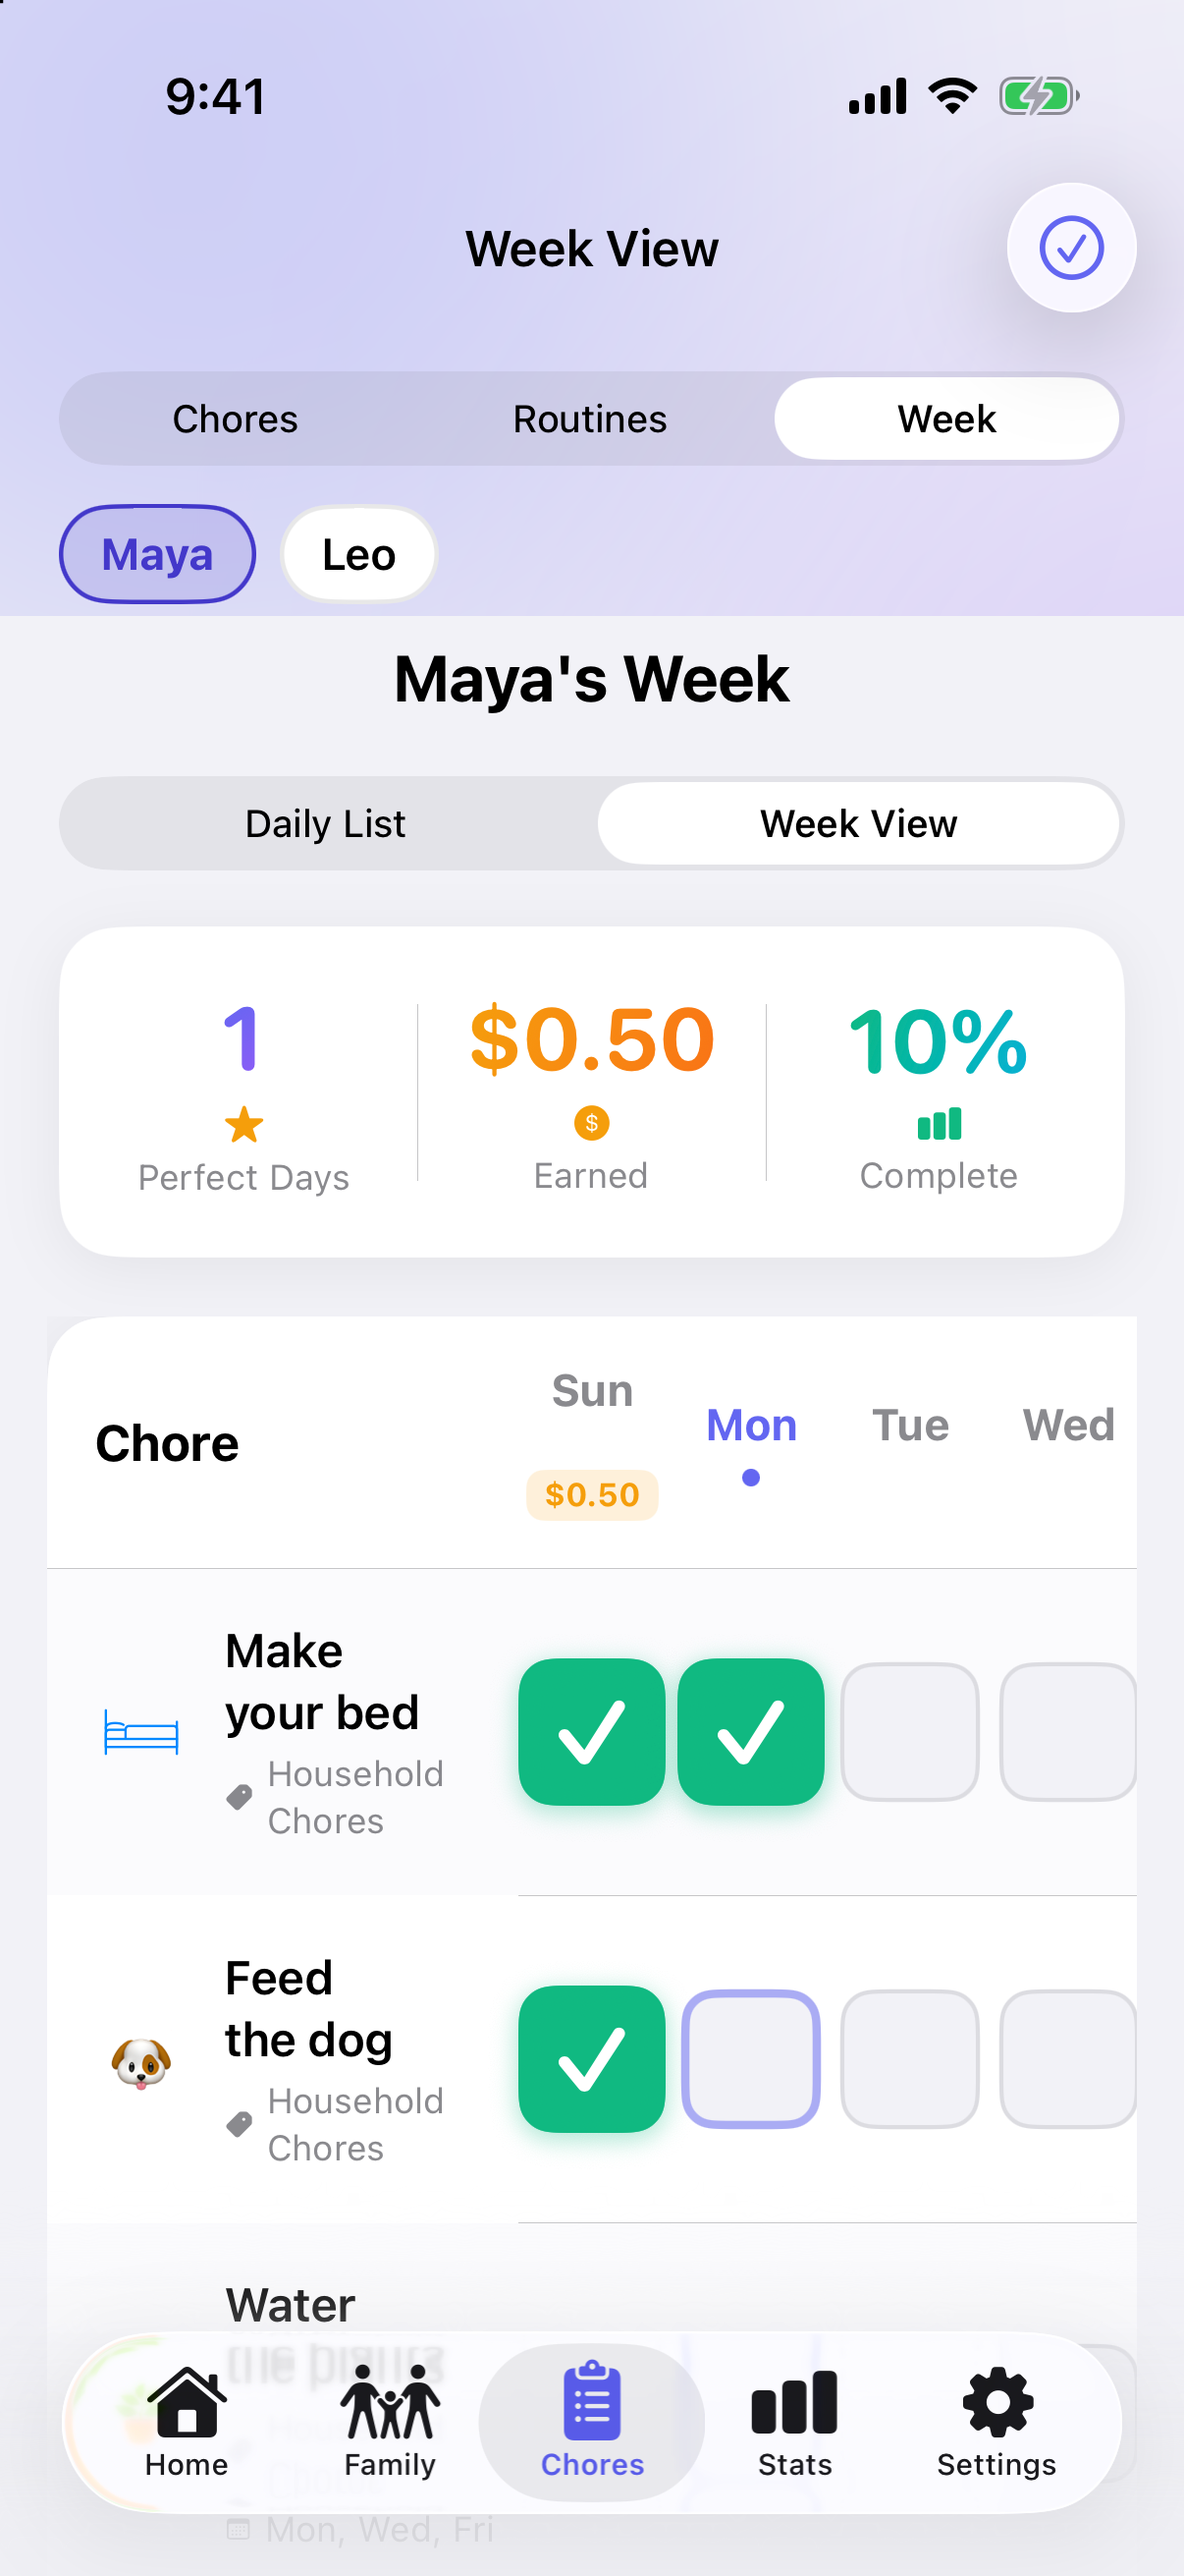
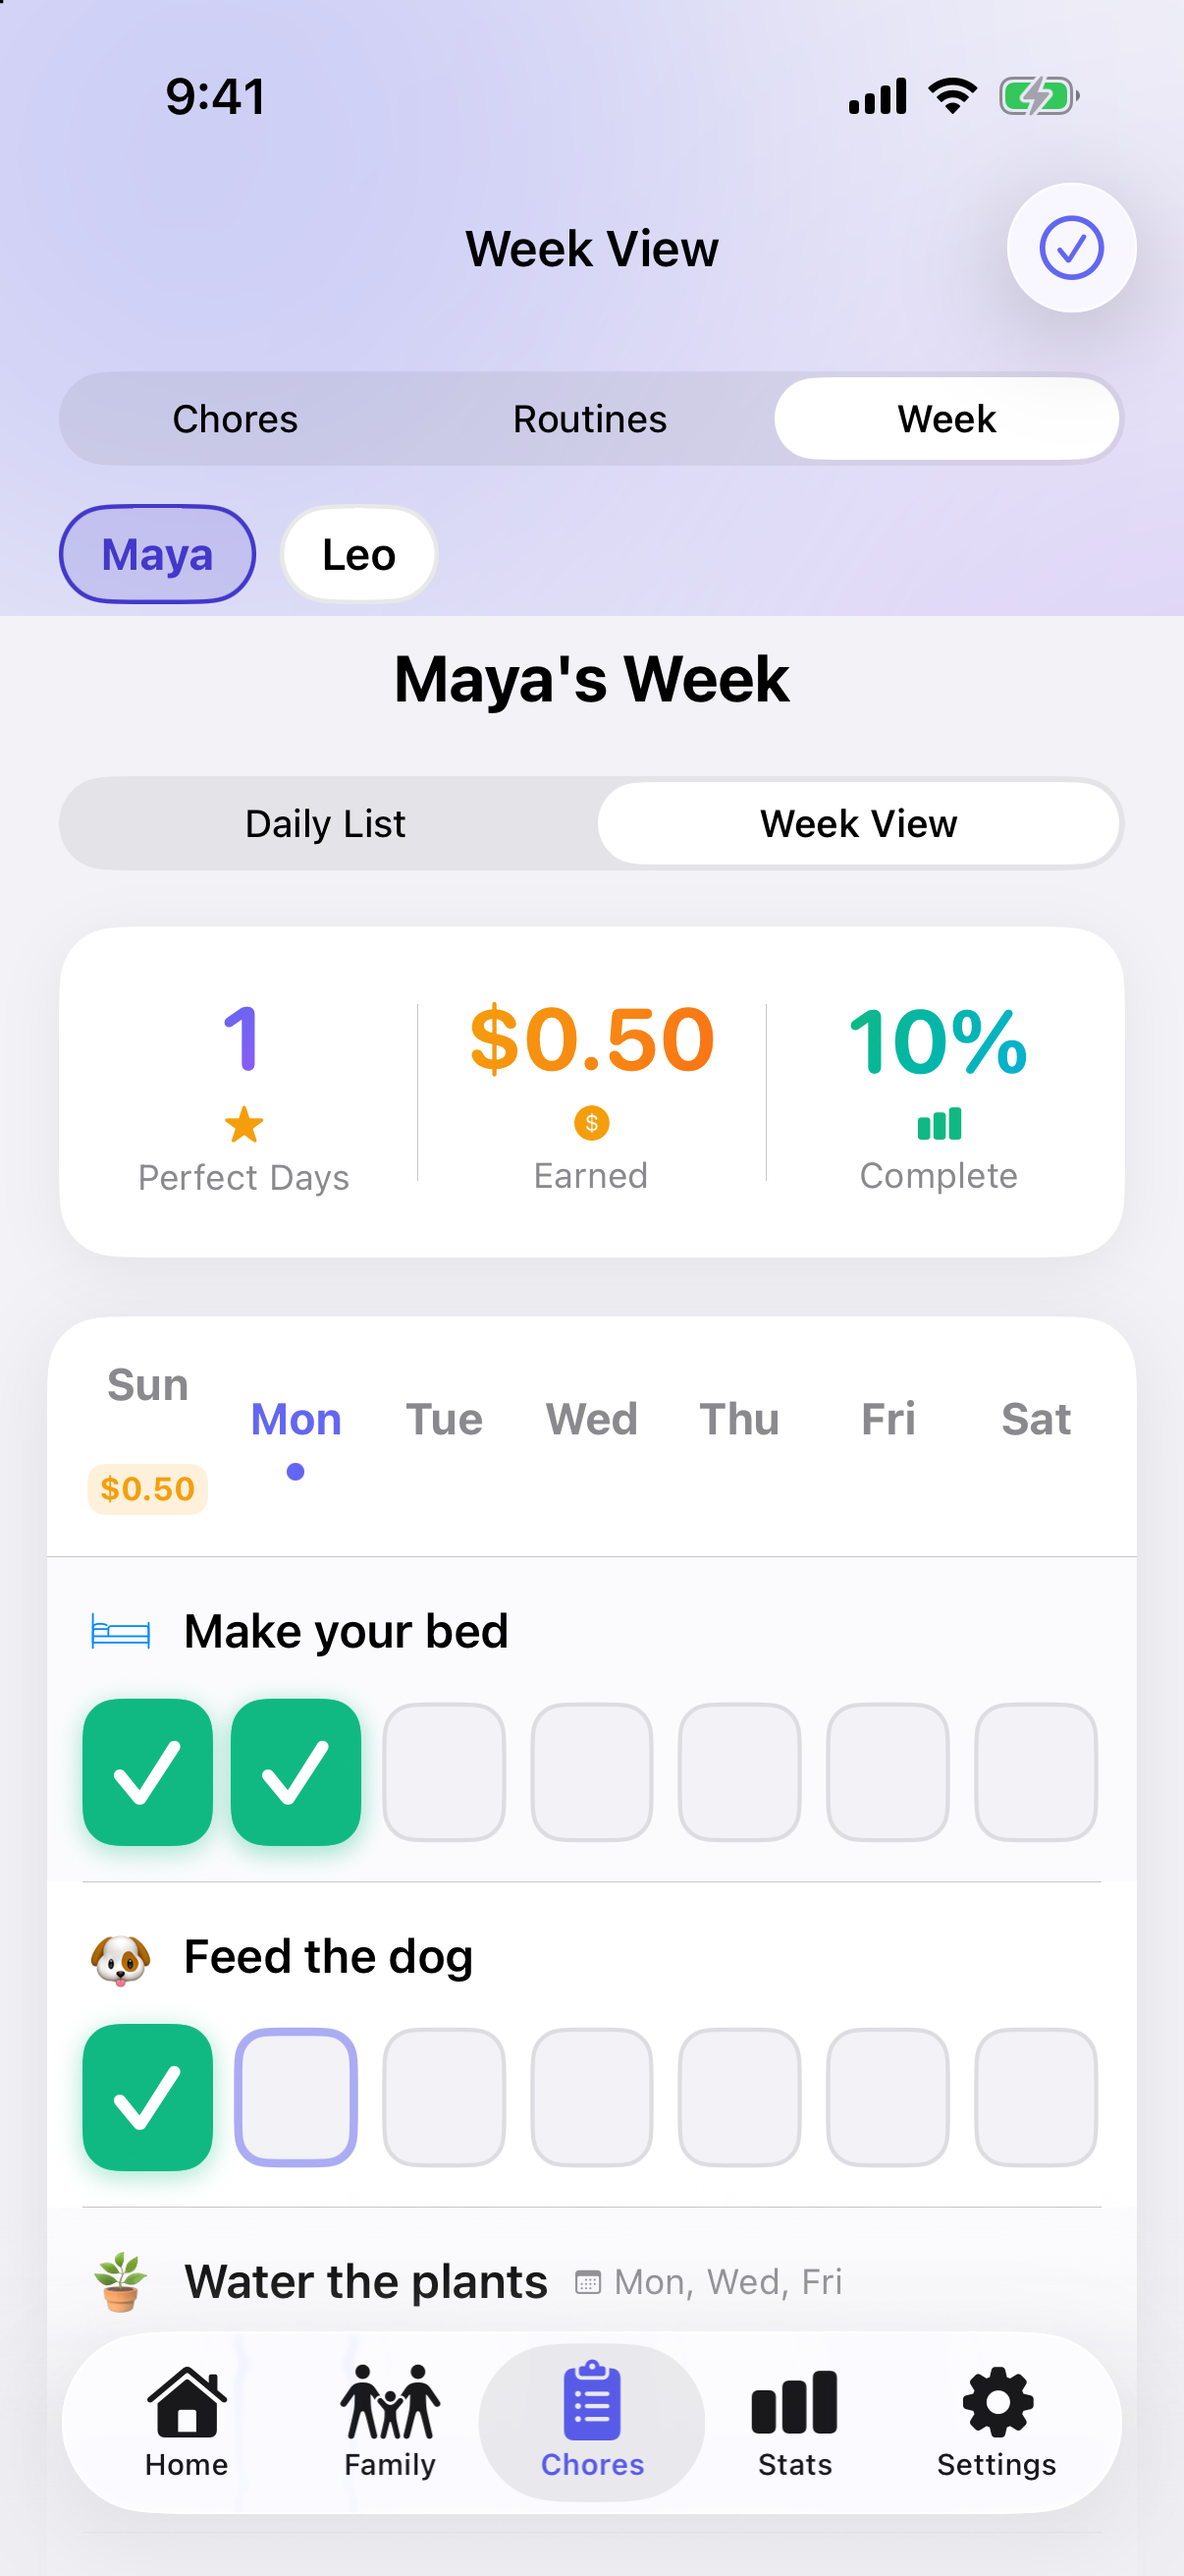
feat(ios): week grid fits the screen, no more side-scrolling
The grid was a 140pt chore column plus seven 50pt cells inside a
horizontal ScrollView, so iPhones saw four days and swiped for the
rest. It now uses the web grid's shape: chore info above its row, seven
flexible columns below, day headers aligned, iPad capped at a
comfortable width. Every cell keeps its tap-to-toggle, pending, and
off-day dashed states. Reddit asset retaken with the full week visible.

diff --git a/ChoreStar-iOS/ChoreStar/Views/WeekCalendarView.swift b/ChoreStar-iOS/ChoreStar/Views/WeekCalendarView.swift
@@ -189,31 +189,21 @@ struct WeekCalendarView: View {
                     }
                     .padding(.horizontal, 20)
                 } else {
-                    // WEEK VIEW (GRID) - scrollable horizontally for small screens
-                    let gridWidth = choreColumnWidth + (cellSize * 7) + 40
-                    let needsScroll = gridWidth > geometry.size.width
-                    
-                    ScrollView(.horizontal, showsIndicators: needsScroll) {
-                        VStack(spacing: 0) {
-                            // Day headers
-                            HStack(spacing: 4) {
-                                // Chore column header
-                                VStack(spacing: 4) {
-                                    Text("Chore")
-                                        .font(.headline)
-                                        .fontWeight(.bold)
-                                        .foregroundColor(.choreStarTextPrimary)
-                                }
-                                .frame(width: choreColumnWidth, alignment: .leading)
-                                .padding(.leading, 16)
-                                
-                                // Day headers
+                    // WEEK VIEW (GRID): seven flexible columns that fit any
+                    // width, no horizontal scrolling. Chore info sits ABOVE
+                    // its row of cells (the web grid's shape), so the columns
+                    // share the full card width on iPhone; iPad caps the card
+                    // at a comfortable width instead of stretching cells.
+                    VStack(spacing: 0) {
+                            // Day headers — same spacing and padding as the
+                            // cell rows below so the columns line up.
+                            HStack(spacing: 6) {
                                 ForEach(ChoreSchedule.displayOrder(), id: \.self) { dayIndex in
                                     VStack(spacing: 6) {
                                         Text(days[dayIndex])
                                             .font(.subheadline)
                                             .fontWeight(.bold)
-                                        
+
                                         if dayIndex == currentDayOfWeek {
                                             Circle()
                                                 .fill(Color.choreStarPrimary)
@@ -223,28 +213,31 @@ struct WeekCalendarView: View {
                                                 .fill(Color.clear)
                                                 .frame(width: 6, height: 6)
                                         }
-                                        
+
                                         // Show earnings if perfect day
                                         if isDayPerfect(dayIndex) {
                                             Text(manager.formatMoney(dayEarnings(dayIndex)))
                                                 .font(.caption2)
                                                 .fontWeight(.bold)
                                                 .foregroundColor(.choreStarAccent)
-                                                .padding(.horizontal, 6)
+                                                .lineLimit(1)
+                                                .minimumScaleFactor(0.6)
+                                                .padding(.horizontal, 4)
                                                 .padding(.vertical, 2)
                                                 .background(Color.choreStarAccent.opacity(0.15))
                                                 .cornerRadius(6)
                                         }
                                     }
-                                    .frame(width: cellSize)
+                                    .frame(maxWidth: .infinity)
                                     .foregroundColor(dayIndex == currentDayOfWeek ? .choreStarPrimary : .choreStarTextSecondary)
                                 }
                             }
-                            .padding(.vertical, 16)
+                            .padding(.horizontal, 12)
+                            .padding(.vertical, 14)
                             .background(Color.choreStarCardBackground)
-                        
+
                             Divider()
-                            
+
                             // Chore rows
                             ForEach(Array(childChores.enumerated()), id: \.element.id) { index, chore in
                                 ChoreWeekRow(
@@ -254,22 +247,22 @@ struct WeekCalendarView: View {
                                     earnedAchievements: $earnedAchievements,
                                     showAchievementAlert: $showAchievementAlert,
                                     showConfetti: $showConfetti,
-                                    choreColumnWidth: choreColumnWidth,
-                                    cellSize: cellSize,
+                                    cellHeight: cellSize,
                                     isEvenRow: index % 2 == 0
                                 )
-                                
+
                                 if index < childChores.count - 1 {
                                     Divider()
-                                        .padding(.leading, choreColumnWidth + 20)
+                                        .padding(.horizontal, 12)
                                 }
                             }
                         }
                         .background(Color.choreStarCardBackground)
                         .cornerRadius(20)
                         .shadow(color: .black.opacity(0.08), radius: 15, x: 0, y: 5)
-                    }
-                    .padding(.horizontal, 16)
+                        .frame(maxWidth: horizontalSizeClass == .regular ? 560 : .infinity)
+                        .frame(maxWidth: .infinity)
+                        .padding(.horizontal, 16)
                 }
                 
                     // Clear the floating tab bar so the last row's cells are
@@ -411,63 +404,54 @@ struct ChoreWeekRow: View {
     @Binding var earnedAchievements: [Achievement]
     @Binding var showAchievementAlert: Bool
     @Binding var showConfetti: Bool
-    let choreColumnWidth: CGFloat
-    let cellSize: CGFloat
+    let cellHeight: CGFloat
     let isEvenRow: Bool
-    
+
     var body: some View {
-        HStack(spacing: 4) {
-            // Chore info
-            HStack(spacing: 12) {
-                AdaptiveIcon(icon: chore.icon ?? "📝", fallbackSymbol: "checklist", tint: Color.fromString(chore.color ?? ""), iconSize: 28)
-                    .frame(width: 32, height: 32)
+        VStack(alignment: .leading, spacing: 10) {
+            // Chore info on its own line, so the seven cells below share the
+            // full card width and the grid never scrolls sideways.
+            HStack(spacing: 8) {
+                AdaptiveIcon(icon: chore.icon ?? "📝", fallbackSymbol: "checklist", tint: Color.fromString(chore.color ?? ""), iconSize: 22)
+                    .frame(width: 26, height: 26)
 
-                VStack(alignment: .leading, spacing: 4) {
-                    Text(chore.name)
-                        .font(.callout)
-                        .fontWeight(.semibold)
-                        .foregroundColor(.choreStarTextPrimary)
-                        .lineLimit(2)
-                    
-                    if let category = chore.category {
-                        HStack(spacing: 4) {
-                            Image(systemName: "tag.fill")
-                                .font(.system(size: 8))
-                            Text(ChoreCategory.label(for: category))
-                                .font(.caption)
-                        }
-                        .foregroundColor(.choreStarTextSecondary)
-                    }
+                Text(chore.name)
+                    .font(.callout)
+                    .fontWeight(.semibold)
+                    .foregroundColor(.choreStarTextPrimary)
+                    .lineLimit(1)
 
-                    if !chore.isEveryDay {
-                        HStack(spacing: 4) {
-                            Image(systemName: "calendar")
-                                .font(.system(size: 8))
-                            Text(chore.scheduleLabel)
-                                .font(.caption)
-                        }
-                        .foregroundColor(.choreStarTextSecondary)
+                if !chore.isEveryDay {
+                    HStack(spacing: 3) {
+                        Image(systemName: "calendar")
+                            .font(.system(size: 9))
+                        Text(chore.scheduleLabel)
+                            .font(.caption)
                     }
+                    .foregroundColor(.choreStarTextSecondary)
+                    .lineLimit(1)
+                }
+
+                Spacer(minLength: 0)
+            }
+
+            // Day cells — seven flexible columns aligned with the header.
+            HStack(spacing: 6) {
+                ForEach(ChoreSchedule.displayOrder(), id: \.self) { dayIndex in
+                    DayCell(
+                        chore: chore,
+                        dayIndex: dayIndex,
+                        manager: manager,
+                        earnedAchievements: $earnedAchievements,
+                        showAchievementAlert: $showAchievementAlert,
+                        showConfetti: $showConfetti,
+                        cellHeight: cellHeight
+                    )
                 }
             }
-            .frame(width: choreColumnWidth, alignment: .leading)
-            .padding(.leading, 16)
-            
-            // Day cells
-            ForEach(ChoreSchedule.displayOrder(), id: \.self) { dayIndex in
-                DayCell(
-                    chore: chore,
-                    dayIndex: dayIndex,
-                    manager: manager,
-                    earnedAchievements: $earnedAchievements,
-                    showAchievementAlert: $showAchievementAlert,
-                    showConfetti: $showConfetti,
-                    cellSize: cellSize
-                )
-                .frame(width: cellSize)
-            }
         }
-        .padding(.vertical, 18)
+        .padding(.horizontal, 12)
+        .padding(.vertical, 12)
         .background(isEvenRow ? Color.choreStarBackground.opacity(0.3) : Color.clear)
     }
 }
@@ -479,7 +463,7 @@ struct DayCell: View {
     @Binding var earnedAchievements: [Achievement]
     @Binding var showAchievementAlert: Bool
     @Binding var showConfetti: Bool
-    let cellSize: CGFloat
+    let cellHeight: CGFloat
     
     private var isToday: Bool {
         let currentDay = Calendar.current.component(.weekday, from: Date()) - 1
@@ -524,7 +508,8 @@ struct DayCell: View {
             ZStack {
                 RoundedRectangle(cornerRadius: 12)
                     .fill(isCompleted ? Color.choreStarSuccess : (isPending ? Color.choreStarWarning.opacity(0.18) : (isDue ? Color.choreStarBackground : Color.clear)))
-                    .frame(width: cellSize, height: cellSize)
+                    .frame(maxWidth: .infinity)
+                    .frame(height: cellHeight)
                     .overlay(
                         RoundedRectangle(cornerRadius: 12)
                             .strokeBorder(
@@ -537,14 +522,14 @@ struct DayCell: View {
 
                 if isPending {
                     Image(systemName: "clock.fill")
-                        .font(.system(size: cellSize * 0.42, weight: .bold))
+                        .font(.system(size: cellHeight * 0.42, weight: .bold))
                         .foregroundColor(.choreStarWarning)
                         .accessibilityLabel("Waiting for your OK, tap to approve")
                 }
 
                 if isCompleted {
                     Image(systemName: "checkmark")
-                        .font(.system(size: cellSize * 0.5, weight: .bold))
+                        .font(.system(size: cellHeight * 0.5, weight: .bold))
                         .foregroundColor(.white)
                 }
             }

diff --git a/docs/reddit-launch/README.md b/docs/reddit-launch/README.md
@@ -78,3 +78,6 @@ xcrun simctl terminate $UDID com.chorestar.ChoreStar
 xcrun simctl launch $UDID com.chorestar.ChoreStar -chorestar-tab family
 xcrun simctl io $UDID screenshot 05-parent-dashboard.png
 ```
+
+## Update (same day)
+The iOS week grid was rebuilt after the first capture round: chore info now sits above its row of seven flexible cells (the web grid shape), so nothing scrolls sideways. 04-parent-week-grid.png shows the full Sun-Sat week on one screen; 04-parent-week-daily.png is the stacked Daily List variant.
